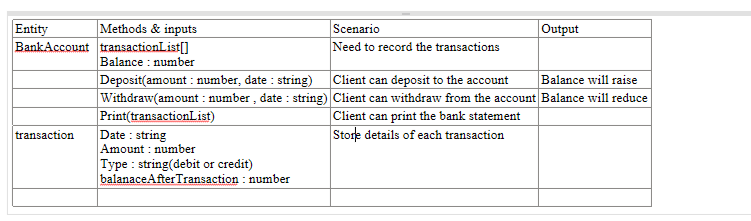
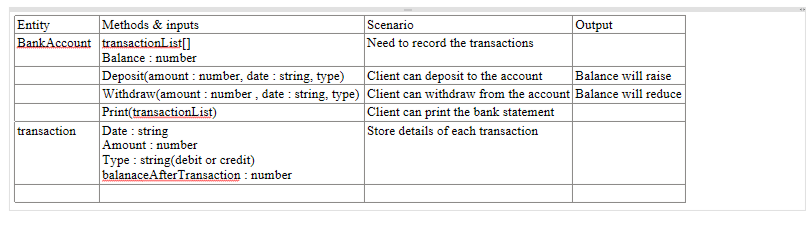
deposit method done & domain model updated

Changed region(s): [[0.0, 0.0271, 1.0, 0.8959], [0.0, 0.9231, 1.0, 0.9774]]

diff --git a/src/transaction.js b/src/transaction.js
@@ -1,0 +1,10 @@
+class Transaction {
+  constructor (amount, date, type,balanceAfterTransaction) {
+    this.amount = amount
+    this.date = date
+    this.type = type
+    this.balanceAfterTransaction = balanceAfterTransaction
+  }
+}
+
+export { Transaction }
